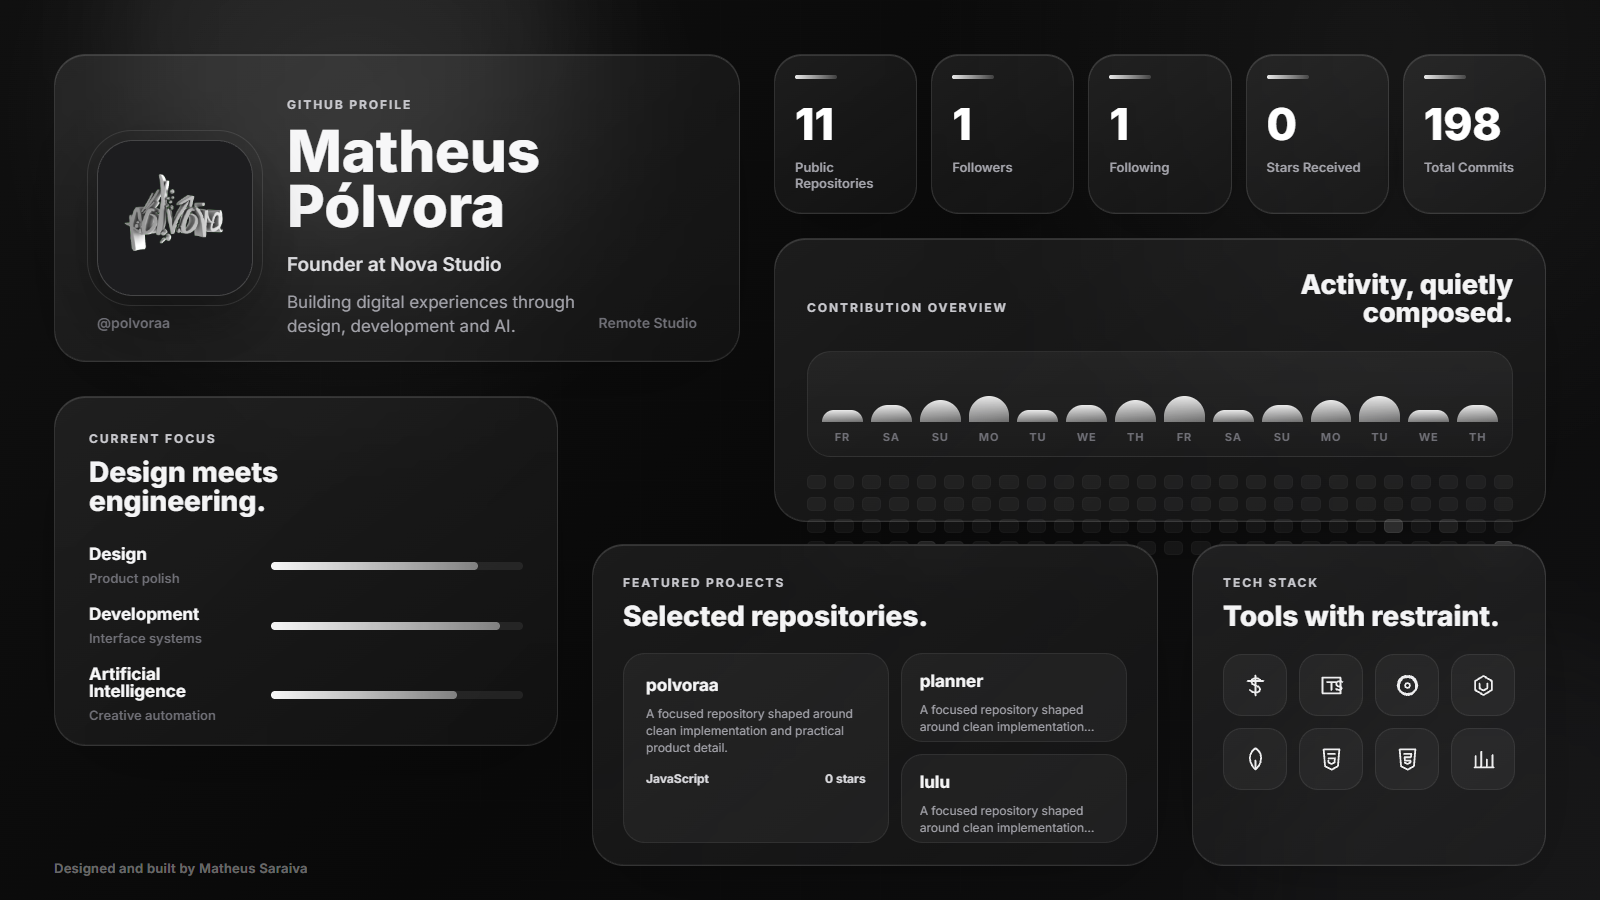
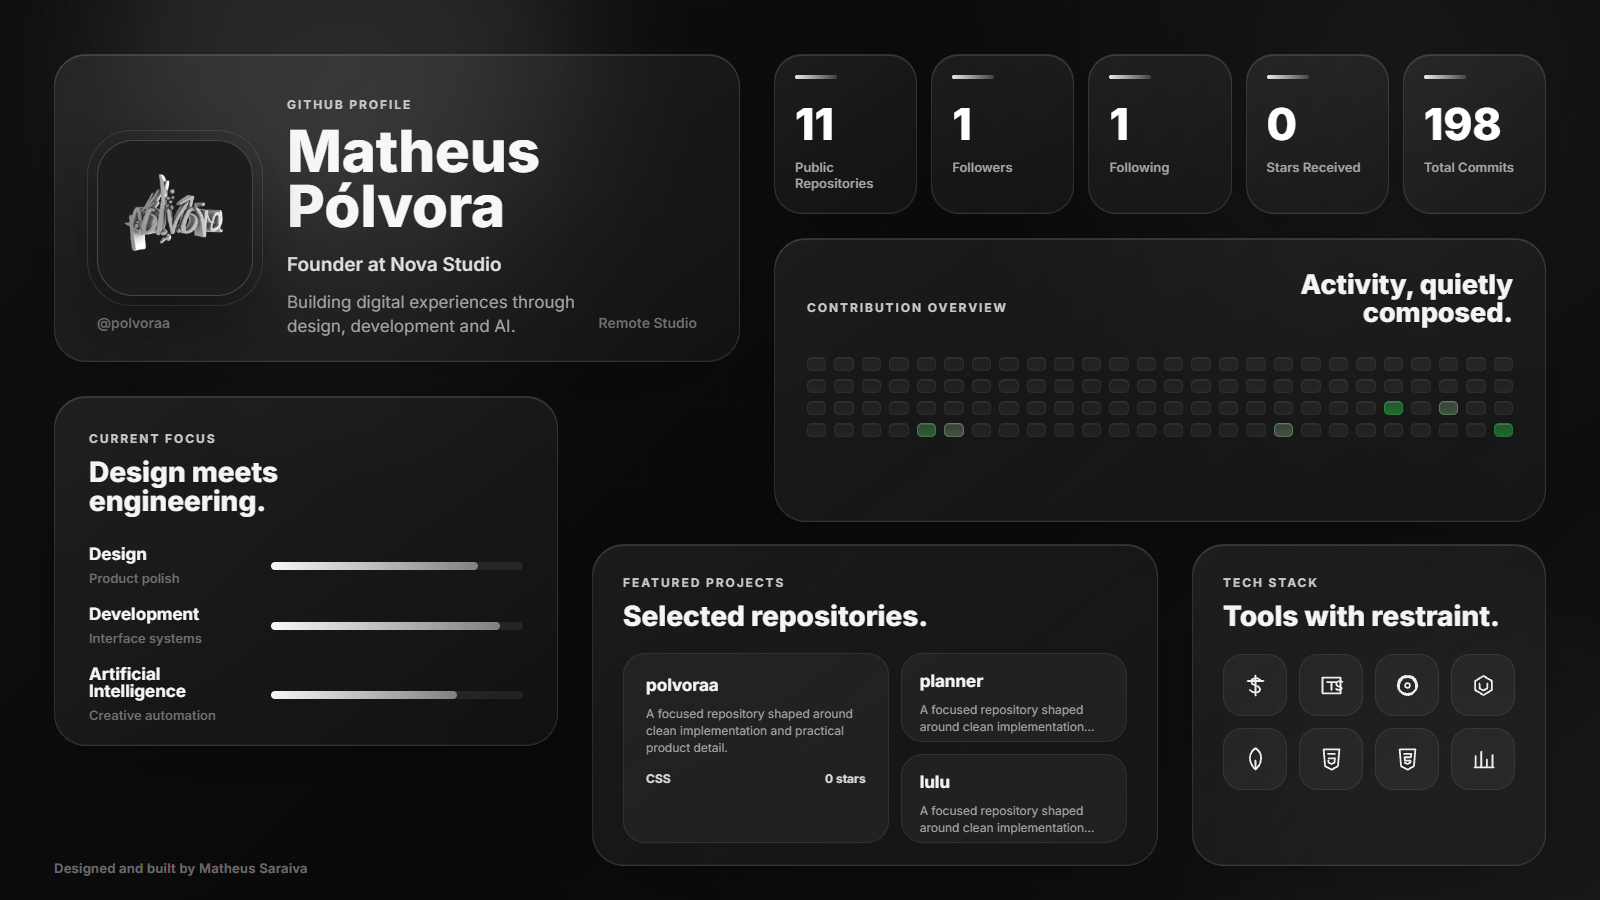
visual increase

Changed region(s): [[0.5, 0.4356, 0.9688, 0.4978], [0.8438, 0.56, 0.875, 0.5911], [0.4062, 0.84, 0.4375, 0.8711]]

diff --git a/script.js b/script.js
@@ -123,56 +123,19 @@ function renderHeatmap(events, repos) {
     const cell = document.createElement("span");
     cell.className = "heat-cell";
     cell.style.setProperty("--level", level.toFixed(2));
+    const palette = [
+      ["rgba(255, 255, 255, 0.035)", "rgba(255, 255, 255, 0.05)"],
+      ["rgba(161, 218, 163, 0.22)", "rgba(161, 218, 163, 0.3)"],
+      ["rgba(76, 175, 93, 0.34)", "rgba(76, 175, 93, 0.46)"],
+      ["rgba(42, 153, 66, 0.48)", "rgba(42, 153, 66, 0.62)"],
+      ["rgba(35, 122, 53, 0.66)", "rgba(35, 122, 53, 0.8)"],
+    ];
+    const levelIndex = Math.min(4, Math.max(0, Math.round(level * 4)));
+    const [fill, border] = palette[levelIndex];
+    cell.style.background = `linear-gradient(180deg, ${fill}, ${border})`;
+    cell.style.borderColor = border;
     heatmap.appendChild(cell);
   }
-}
-
-function renderCommitChart(events, repos) {
-  const chart = $("commitChart");
-  chart.innerHTML = "";
-
-  const commitCounts = new Map();
-  events
-    .filter((event) => event.type === "PushEvent")
-    .forEach((event) => {
-      const key = new Date(event.created_at).toISOString().slice(0, 10);
-      const commits = event.payload?.commits?.length || 0;
-      commitCounts.set(key, (commitCounts.get(key) || 0) + commits);
-    });
-
-  const days = [];
-  for (let offset = 13; offset >= 0; offset -= 1) {
-    const day = new Date();
-    day.setDate(day.getDate() - offset);
-    const key = day.toISOString().slice(0, 10);
-    const value = commitCounts.get(key) || 0;
-    days.push({
-      key,
-      value,
-      label: day.toLocaleDateString("en", { weekday: "short" }).slice(0, 2),
-    });
-  }
-
-  const peak = Math.max(...days.map((day) => day.value), 0);
-  const hasActivity = peak > 0;
-  const fallbackScale = repos.length ? Math.max(1, Math.round(getTotalStars(repos) / 12)) : 1;
-
-  chart.innerHTML = days
-    .map(
-      (day, index) => `
-        <div class="commit-column" title="${day.key}">
-          <span class="commit-bar-shell">
-            <span
-              class="commit-bar"
-              style="--value:${hasActivity ? day.value / peak : Math.min(1, (fallbackScale * ((index % 4) + 1)) / 10)};"
-              data-peak="${day.value === peak ? "true" : "false"}"
-            ></span>
-          </span>
-          <span class="commit-label">${day.label}</span>
-        </div>
-      `,
-    )
-    .join("");
 }
 
 function renderProjects(repos) {
@@ -224,14 +187,12 @@ async function init() {
     const repoList = repos.length ? repos : fallbackRepos;
     renderProfile(profile);
     renderStats(repoList, events);
-    renderCommitChart(events, repoList);
     renderHeatmap(events, repoList);
     renderProjects(repoList);
   } catch (error) {
     console.warn(error);
     renderProfile(fallbackProfile);
     renderStats(fallbackRepos, []);
-    renderCommitChart([], fallbackRepos);
     renderHeatmap([], fallbackRepos);
     renderProjects(fallbackRepos);
   } finally {

diff --git a/styles.css b/styles.css
@@ -237,7 +237,7 @@ h1 {
   right: 54px;
   height: 284px;
   border-radius: 32px;
-  padding: 32px;
+  padding: 32px 32px 44px;
 }
 
 .section-heading {
@@ -257,61 +257,9 @@ h1 {
   text-align: right;
 }
 
-.commit-chart {
-  margin-top: 24px;
-  display: grid;
-  grid-template-columns: repeat(14, minmax(0, 1fr));
-  gap: 8px;
-  align-items: end;
-  padding: 16px 14px 12px;
-  border-radius: 24px;
-  background: linear-gradient(180deg, rgba(255, 255, 255, 0.05), rgba(255, 255, 255, 0.02));
-  border: 1px solid var(--line-soft);
-}
-
-.commit-column {
-  min-width: 0;
-  display: grid;
-  gap: 8px;
-  justify-items: center;
-}
-
-.commit-bar-shell {
-  width: 100%;
-  height: 54px;
-  display: flex;
-  align-items: end;
-}
-
-.commit-bar {
-  display: block;
-  width: 100%;
-  min-height: 8px;
-  height: calc(8px + (46px * var(--value)));
-  border-radius: 999px 999px 10px 10px;
-  background:
-    linear-gradient(180deg, rgba(255, 255, 255, 0.98), rgba(255, 255, 255, 0.24)),
-    linear-gradient(90deg, rgba(255, 255, 255, 0.16), rgba(255, 255, 255, 0.05));
-  box-shadow: inset 0 1px 0 rgba(255, 255, 255, 0.2);
-  opacity: 0.9;
-}
-
-.commit-bar[data-peak="true"] {
-  background:
-    linear-gradient(180deg, rgba(255, 255, 255, 1), rgba(255, 255, 255, 0.34)),
-    linear-gradient(90deg, rgba(255, 255, 255, 0.22), rgba(255, 255, 255, 0.06));
-}
-
-.commit-label {
-  color: var(--faint);
-  font-size: 11px;
-  font-weight: 700;
-  letter-spacing: 0.08em;
-  text-transform: uppercase;
-}
-
 .heatmap {
-  margin-top: 18px;
+  margin-top: 30px;
+  padding-bottom: 6px;
   display: grid;
   grid-template-columns: repeat(26, 1fr);
   grid-auto-rows: 14px;
@@ -320,8 +268,12 @@ h1 {
 
 .heat-cell {
   border-radius: 5px;
-  background: rgba(255, 255, 255, calc(0.045 + var(--level) * 0.12));
-  border: 1px solid rgba(255, 255, 255, calc(0.02 + var(--level) * 0.045));
+  background:
+    linear-gradient(180deg,
+      rgba(255, 255, 255, calc(0.05 + var(--level) * 0.26)),
+      rgba(255, 255, 255, calc(0.03 + var(--level) * 0.14)));
+  border: 1px solid rgba(255, 255, 255, calc(0.02 + var(--level) * 0.085));
+  box-shadow: inset 0 1px 0 rgba(255, 255, 255, calc(0.06 + var(--level) * 0.12));
 }
 
 .focus {
@@ -613,10 +565,6 @@ h1 {
     font-size: 22px;
   }
 
-  .commit-chart {
-    grid-template-columns: repeat(7, minmax(0, 1fr));
-  }
-
   .projects-grid {
     grid-template-columns: 1fr;
     grid-template-rows: auto;
@@ -675,11 +623,6 @@ h1 {
     gap: 10px;
     flex-direction: column;
     align-items: flex-start;
-  }
-
-  .commit-chart {
-    grid-template-columns: repeat(7, minmax(0, 1fr));
-    gap: 6px;
   }
 
   .heatmap {

diff --git a/index.html b/index.html
@@ -66,7 +66,6 @@
           <p class="eyebrow">Contribution Overview</p>
           <h2>Activity, quietly composed.</h2>
         </div>
-        <div id="commitChart" class="commit-chart" aria-label="Commit activity chart"></div>
         <div id="heatmap" class="heatmap" aria-label="GitHub contribution heatmap"></div>
       </section>
 

diff --git a/README.md b/README.md
@@ -1,5 +1,3 @@
-# Matheus Saraiva
-
 <p align="center">
   <img src="./profile-dashboard.png" alt="GitHub dashboard" width="100%" />
 </p>
